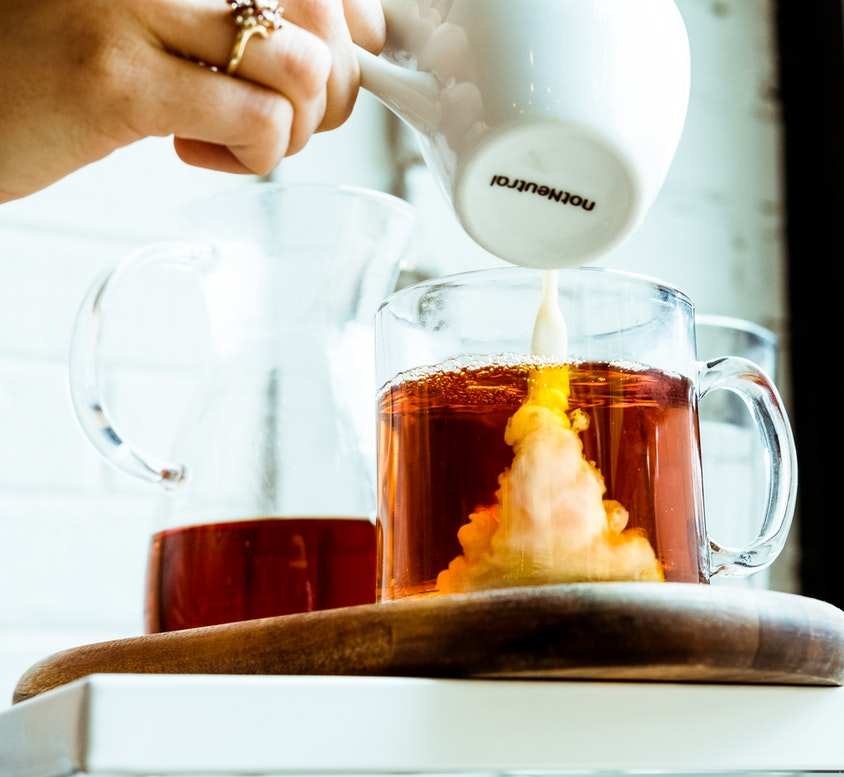
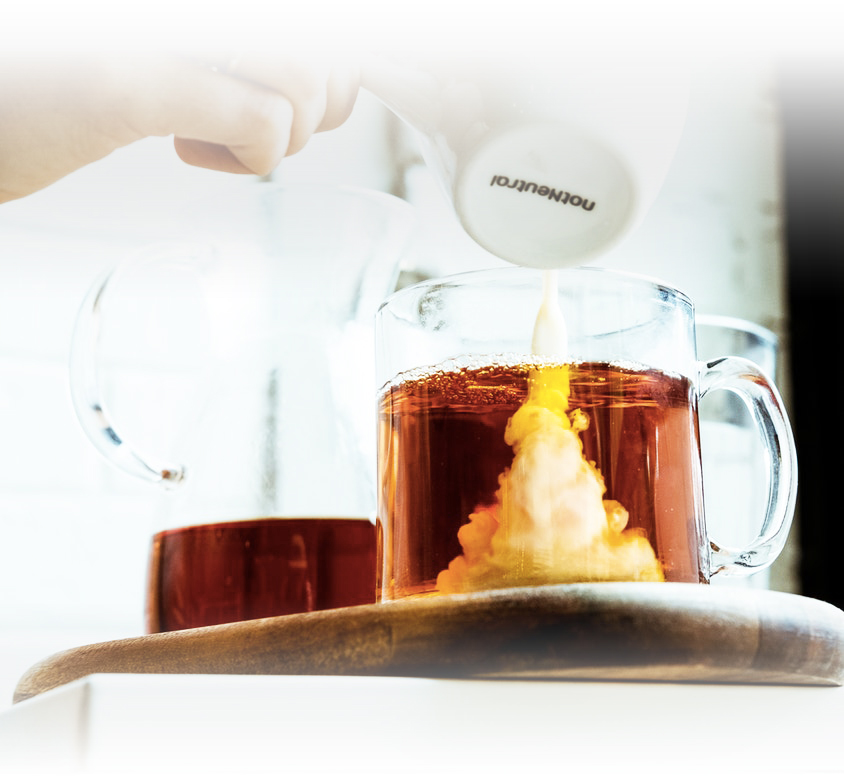
Menu hamburger finished + Menu page background

diff --git a/css/master.css b/css/master.css
@@ -81,6 +81,11 @@ img.parent2 {
 	.contact ul {
 		margin-left: 1%;
 		}
+		
+	#wrapper {
+	padding-left: 2.8vh;
+	padding-right: 2.8vh;
+		}
 	}
 
 .contact ul li {
@@ -145,16 +150,27 @@ img.parent2 {
 	color: black;
 	text-decoration: none;
 	}
-}
-
-.header li a {
-  display: block;
+	
+.header ul {
+	font-size: 20px;
+	background: white;
+	}
+	
+.header ul li {
+	padding: 2px;
+	border-bottom: 1px solid #C9C9C9;
+	text-align: center;
+	}
+	
+	.span1 {
+		display: none;
+	}
 }
 
 .header .menu {
   clear: both;
   max-height: 0;
-  transition: max-height .2s ease-out;
+  transition: max-height .6s ease-out;
 }
 
 
@@ -162,7 +178,7 @@ img.parent2 {
   cursor: pointer;
   display: inline-block;
   float: right;
-  padding: 48px 20px;
+  padding: 75px 20px;
   position: relative;
   user-select: none;
 }
@@ -172,7 +188,7 @@ img.parent2 {
   display: block;
   height: 2px;
   position: relative;
-  transition: background .2s ease-out;
+  transition: background .6s ease-out;
   width: 18px;
 }
 
@@ -352,23 +368,25 @@ img.parent2 {
 	display: flex;
 	flex-direction: column;
 	text-align: center;
-	height: 79vh;
+	height: 76vh;
 	font-size: 20px;
 	background-image: url(../images/milk.jpg);
 	background-color: white;
-	background-position: center -35vh;
+	background-position: center;
 	background-repeat: no-repeat;
 	background-attachment: scroll;
-	background-size: cover;
+	background-size: 80%;
 	font-size: 30px;
+	margin-top: 10px;
+	margin-bottom: 10px;
 	}
 
 .rectangle {
     width: 7vh;
     height: 7vh;
     margin: 7px;
-    border: 1px solid white;
     display: flex;
+     border: 1px solid white;
 	}
 
 .linecolor {
@@ -474,13 +492,16 @@ p.centered {
 	margin-top: 70vh;
 	}
 	
+.teamenuh {
+	display: none;
+		}
+	
 @media only screen and (max-width: 600px) {
 	#wrappergreen {
 		font-size: 19px;
 		background-image: url(../images/milk.jpeg);
-		width: 120%;
-		height: 120%;
-		background-position: right center;
+		width: 130%;
+		background-position: left top;
 		}
 		
 	.columncolor1 {
@@ -491,7 +512,7 @@ p.centered {
 	
 	.columncolor2 {
 		margin-top: 2vh;
-		margin-right: 13vh; 
+		margin-right: 18vh; 
 		margin-bottom: 2vh;
 		}
 	}
@@ -538,7 +559,7 @@ p.centered {
 		}
 	
 	.h1a {
-		margin-top: 5vh;
+		margin-top: 1vh;
 	}			
 	
 	}
@@ -575,7 +596,7 @@ p.centered {
 	}
 	
 	h1.res {
-		font-size: 30px;
+		font-size: 32px;
 	}
 	
 	hr.hr {
@@ -697,7 +718,7 @@ p.centered {
 @media only screen and (max-width: 600px) {
 	.h1b {
 		font-size: 40px;
-		margin-top: 8vh;
+		margin-top: 2vh;
 		}
 	
 	.flexline {
@@ -722,7 +743,8 @@ p.centered {
 	.responsivetara {
 		display: inherit;
 		width: 100%;
-		height: 30vh;
+		height: 27vh;
+		margin-top: 6vh;
 		}
 	
 	}

diff --git a/menu.html b/menu.html
@@ -25,7 +25,7 @@
 					<ul class="menu">
 						<li><a href="menu.html">Tea Menu</a></li>
 						<li><a href="designers.html">Designers</a></li>
-						<li><span></span></li>
+						<li class="span1"><span></span></li>
 						<li><a href="suggestion.html">Special <span class="smaller">this Week</span></a></li>
 						<li><a href="events.html">Events</a></li>
 					</ul>
@@ -36,7 +36,7 @@
 			<a href="index.html"><img class="parent2" src="images/logo2.jpg" alt="logo"></a>
 				
 		</div>
-				
+		
 		<div id="wrappergreen">
 			<div class="linecolor">
 				<div class="columncolor1">

diff --git a/designers.html b/designers.html
@@ -25,7 +25,7 @@
 					<ul class="menu">
 						<li><a href="menu.html">Tea Menu</a></li>
 						<li><a href="designers.html">Designers</a></li>
-						<li><span></span></li>
+						<li class="span1"><span></span></li>
 						<li><a href="suggestion.html">Special <span class="smaller">this Week</span></a></li>
 						<li><a href="events.html">Events</a></li>
 					</ul>

diff --git a/events.html b/events.html
@@ -25,7 +25,7 @@
 					<ul class="menu">
 						<li><a href="menu.html">Tea Menu</a></li>
 						<li><a href="designers.html">Designers</a></li>
-						<li><span></span></li>
+						<li class="span1"><span></span></li>
 						<li><a href="suggestion.html">Special <span class="smaller">this Week</span></a></li>
 						<li><a href="events.html">Events</a></li>
 					</ul>

diff --git a/suggestion.html b/suggestion.html
@@ -27,7 +27,7 @@
 					<ul class="menu">
 						<li><a href="menu.html">Tea Menu</a></li>
 						<li><a href="designers.html">Designers</a></li>
-						<li><span></span></li>
+						<li class="span1"><span></span></li>
 						<li><a href="suggestion.html">Special <span class="smaller">this Week</span></a></li>
 						<li><a href="events.html">Events</a></li>
 					</ul>
